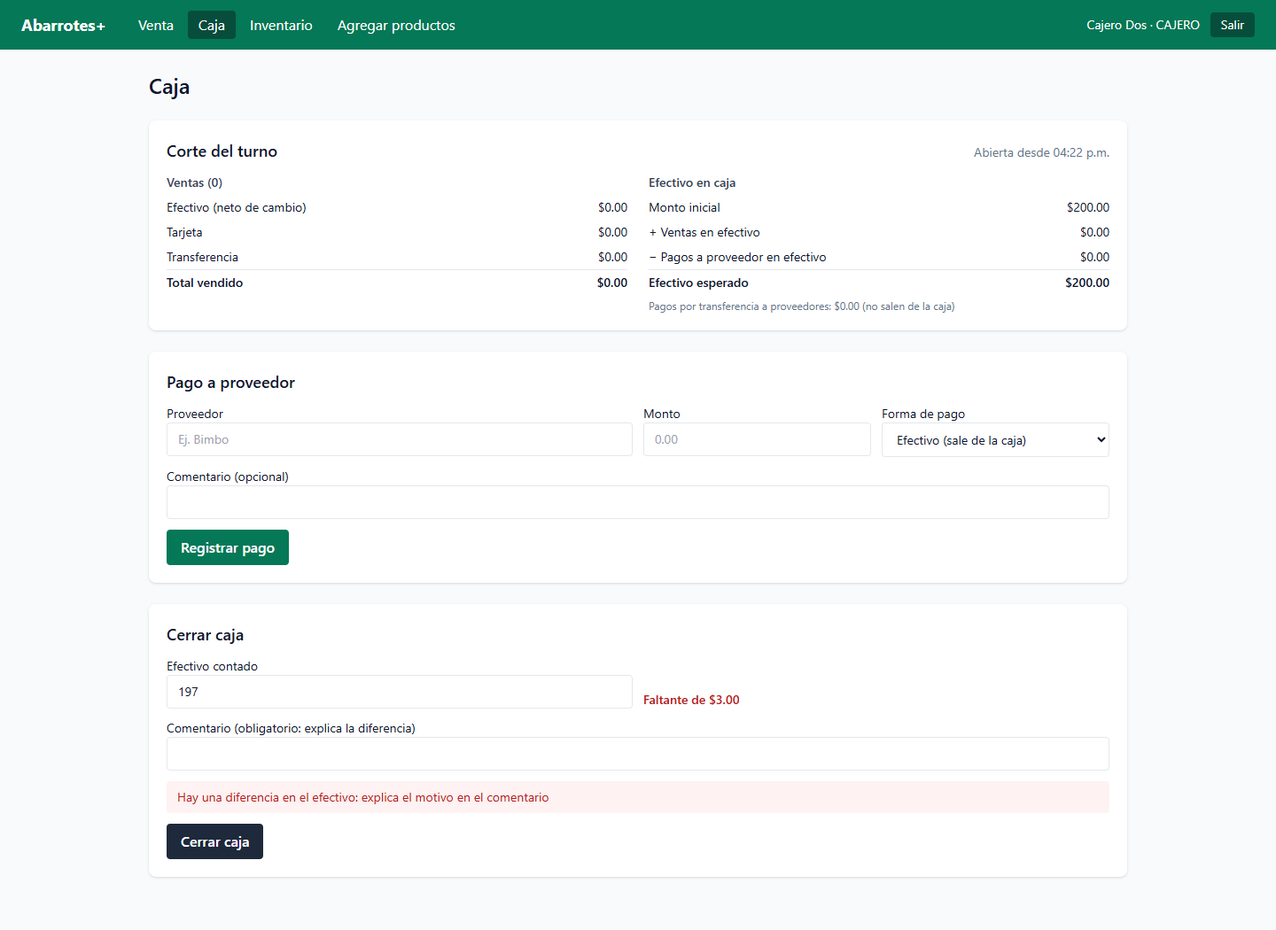
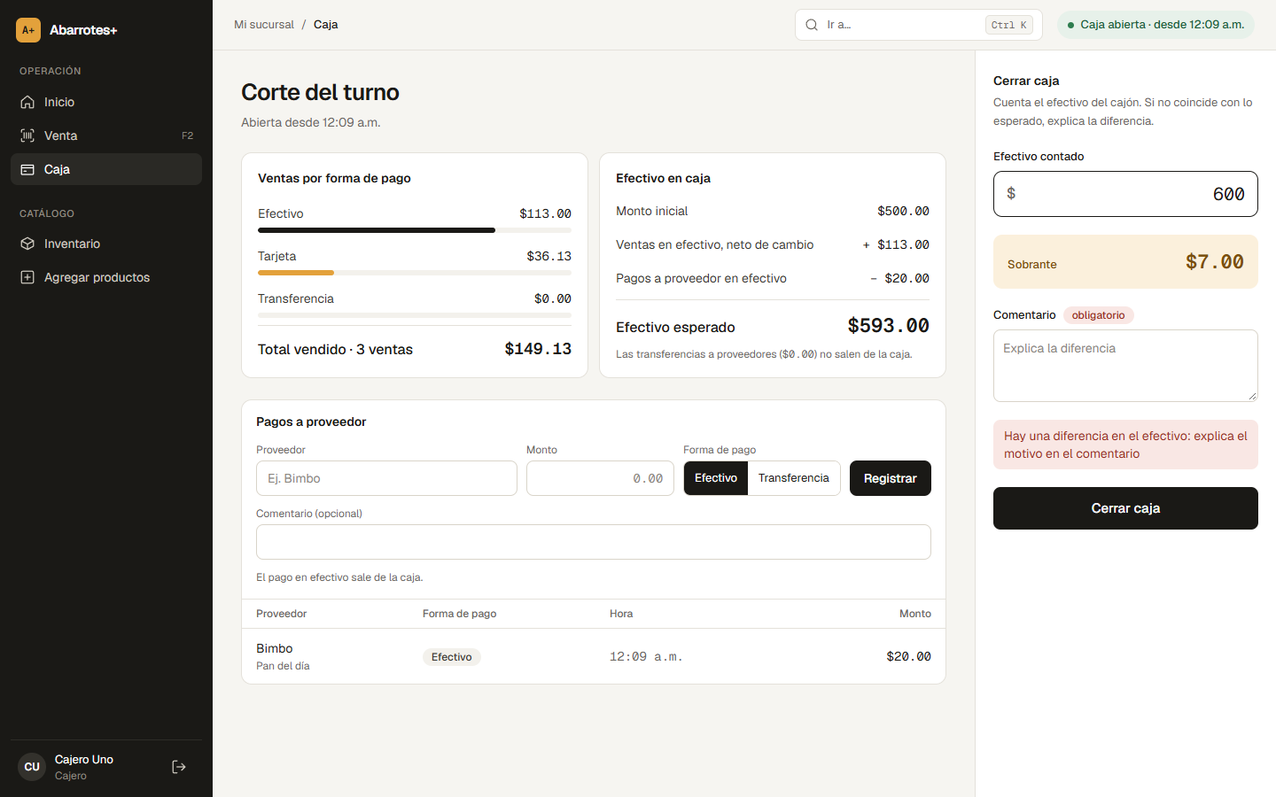
[D-03] Cierre del Sprint 2: 47/47, review, retro y capturas (#17)
* docs(scrum): cierre del Sprint 2 — 47/47 pts, review, retro y capturas Mostrador

- sprint backlog y burndown en 47/47; gráficas regeneradas
- capturas de D-02 rehechas con el nuevo diseño (8 pantallas + 4 alertas, nueva: Inicio)
- Sprint Review con el incremento y borrador de retrospectiva para confirmar con el equipo
- documento Scrum: 4.5–4.7, 4.9, 4.13, 4.14 y conclusiones (borrador)
- checklist de entregables y README actualizados

* docs: changelog de v0.2.0

---------

diff --git a/docs/scrum/documento-scrum.md b/docs/scrum/documento-scrum.md
@@ -1,6 +1,6 @@
 # Documentación del uso de Scrum — Abarrotes+
 
-> **Borrador.** Sigue la estructura de la plantilla "Formato ejemplo para documentar el uso de Scrum en un proyecto" (ver `docs/07-scrum-entregables.md`). Las secciones marcadas como *Pendiente* las completa el responsable indicado. Versión final: documento en Drive, entrega el 1 de noviembre de 2026.
+> Sigue la estructura de la plantilla "Formato ejemplo para documentar el uso de Scrum en un proyecto" (ver `docs/07-scrum-entregables.md`). Estado al cierre del Sprint 2 (29 oct 2026). Pendiente solo la retroalimentación de la demo del 1 nov y la confirmación de la retrospectiva por el equipo.
 
 | Campo | Detalle |
 |---|---|
@@ -88,25 +88,25 @@ Estados: ⬜ Por hacer · 🟨 En progreso · 🟦 En revisión (PR abierto) · 
 | T-00 | Monorepo, Docker Postgres, schema, seed, layout, cliente API | — | — | Sosa | ✅ Integrado en `develop` |
 | T-01 | Login API + JWT + middleware `requireRol` | HU-01 | 3 | Sosa | ✅ |
 | T-02 | Pantalla login, contexto de sesión, guard por rol, logout | HU-01 | | Sosa | ✅ |
-| T-03 | Store del carrito + input de escaneo | HU-02 | 5 | Miguel (reasignada 28 oct) | ⬜ |
-| T-04 | Producto no encontrado + búsqueda manual | HU-02 | | Miguel (reasignada 28 oct) | ⬜ |
+| T-03 | Store del carrito + input de escaneo | HU-02 | 5 | Miguel (reasignada 28 oct) | ✅ |
+| T-04 | Producto no encontrado + búsqueda manual | HU-02 | | Miguel (reasignada 28 oct) | ✅ |
 | T-05 | Captura de peso, conversión g→kg, validaciones | HU-03 | 8 | Miguel | ✅ |
 | T-06 | Cálculo de precio a granel + integración al carrito + pruebas | HU-03 | | Miguel | ✅ |
 | T-07 | `POST /ventas`: recálculo, pagos mixtos, cambio, descuento de stock | HU-06 | 8 | Sosa | ✅ |
 | T-08 | Pantalla de cobro (pago mixto, referencia, cambio) | HU-06 | | Sosa | ✅ |
-| T-09 | Abrir caja (turno) y bloqueo de venta sin turno | HU-05 | 8 | Sosa (reasignada 28 oct) | ⬜ |
-| T-10 | Registrar pago a proveedor | HU-09 | 3 | Sosa (reasignada 28 oct) | ⬜ |
-| T-11 | Corte: totales por método, efectivo esperado, cierre con diferencia | HU-05 | | Sosa (reasignada 28 oct) | ⬜ |
+| T-09 | Abrir caja (turno) y bloqueo de venta sin turno | HU-05 | 8 | Sosa (reasignada 28 oct) | ✅ |
+| T-10 | Registrar pago a proveedor | HU-09 | 3 | Sosa (reasignada 28 oct) | ✅ |
+| T-11 | Corte: totales por método, efectivo esperado, cierre con diferencia | HU-05 | | Sosa (reasignada 28 oct) | ✅ |
 | T-12 | CRUD cajeros (crear, suspender, eliminar lógico, reset password) | HU-12 | 5 | Sosa | ✅ |
 | T-13 | Consulta de inventario con búsqueda | HU-04 | 2 | Miguel | ✅ |
 | T-14 | Alta de producto y entrada de existencias + movimientos | HU-08 | 5 | Sosa (reasignada) | ✅ |
 | D-01 | Diagrama de casos de uso + descripciones | Doc | — | Miguel | ✅ |
-| D-02 | Prototipos principales y de alertas | Doc | — | Miguel (reasignada 28 oct) | ⬜ |
-| D-03 | Diagrama de clases, burndown/burnup, documento Scrum | Doc | — | Sosa | 🟨 |
+| D-02 | Prototipos principales y de alertas | Doc | — | Miguel (reasignada 28 oct) | ✅ |
+| D-03 | Diagrama de clases, burndown/burnup, documento Scrum | Doc | — | Sosa | ✅ |
 
-**Total comprometido:** 47 pts · **Completado:** 31 pts al 28 de octubre (HU-01, HU-06, HU-12, HU-08, HU-03, HU-04).
+**Total comprometido:** 47 pts · **Completado:** 47 pts al 28 de octubre (9 de 9 HU). Sprint cerrado.
 
-> Nota: estados al 28 de octubre; la fuente viva es `docs/scrum/sprint-backlog.md`. Sincronizar antes de la versión final.
+> Nota: estados al cierre (28 oct); la fuente viva es `docs/scrum/sprint-backlog.md`. Sincronizar antes de la versión final.
 
 ### 4.3 Diagrama de clases
 
@@ -126,15 +126,37 @@ Actores cajero, administrador y jefe, con herencia de permisos (el jefe hereda d
 
 Las nueve descripciones (objetivo, precondiciones, flujo principal, alternos, postcondiciones y trazabilidad a los criterios de aceptación) están en `docs/diagramas/casos-de-uso.md`. Las capturas de las pantallas de granel e inventario están en `docs/evidencias/miguel/`.
 
-> Pendiente: vincular los prototipos (D-02, Miguel) a cada caso.
+Cada caso enlaza su pantalla (P-01–P-07) en la tabla de evidencia visual de `docs/diagramas/casos-de-uso.md`; las capturas están en la sección 4.6.
 
 ### 4.6 Prototipos principales
 
-> Pendiente: Miguel (D-02, reasignada 28 oct)
+Capturas de las pantallas reales usadas como prototipos iterados (D-02, Miguel; actualizadas al sistema visual "Mostrador" el 29 oct). Catálogo: `docs/prototipos/README.md`.
+
+![Inicio](../prototipos/img/inicio.png)
+
+![Venta](../prototipos/img/venta.png)
+
+![Cobro](../prototipos/img/cobro.png)
+
+![Caja](../prototipos/img/caja.png)
+
+![Inventario](../prototipos/img/inventario.png)
+
+![Agregar productos](../prototipos/img/productos.png)
+
+![Cuentas de cajero](../prototipos/img/cajeros.png)
+
+![Inicio de sesión](../prototipos/img/login.png)
 
 ### 4.7 Prototipos de alertas
 
-> Pendiente: Miguel (D-02, reasignada 28 oct)
+![Producto no encontrado](../prototipos/img/alerta-producto-no-encontrado.png)
+
+![Pago insuficiente](../prototipos/img/alerta-pago-insuficiente.png)
+
+![Diferencia en el corte](../prototipos/img/alerta-diferencia-corte.png)
+
+![Cuenta suspendida](../prototipos/img/alerta-usuario-suspendido.png)
 
 ### 4.8 Sprint
 
@@ -149,7 +171,7 @@ Los sprints duran **2 semanas**. El calendario del proyecto es:
 
 ### 4.9 Incremento
 
-> Pendiente: Todos (al cierre del sprint, 1 nov 2026)
+Versión `v0.2.0`. Incremento funcional y demostrable: un cajero inicia sesión, abre su caja, registra ventas por código de barras y a granel, cobra con pago mixto y cambio, registra pagos a proveedor y cierra su caja con corte y diferencia; el administrador gestiona cajeros, alta de productos e inventario. Interfaz con el sistema visual "Mostrador". 9 de 9 HU (47 pts), 130 pruebas automatizadas. Detalle en la Sprint Review (`docs/scrum/reuniones.md`).
 
 ### 4.10 Burn Up
 
@@ -159,7 +181,7 @@ La gráfica de burnup del producto (puntos acumulados completados contra el plan
 
 ### 4.11 Burn Down
 
-La gráfica de burndown del Sprint 2 (puntos restantes por día contra la línea ideal de 47 a 0) se mantiene en `docs/scrum/burndown.md`, sección "Gráficas", y se actualiza diariamente. Al día 10 (28 oct) quedan 16 puntos: se integraron HU-01, HU-06, HU-12, HU-08, HU-03 y HU-04 (31 pts). Lo restante es HU-02, HU-09 y HU-05 (Gonzalo).
+La gráfica de burndown del Sprint 2 (puntos restantes por día contra la línea ideal de 47 a 0) se mantiene en `docs/scrum/burndown.md`, sección "Gráficas", y se actualiza diariamente. El burndown se mantuvo plano hasta el día 7 (47 pts) y bajó a 0 el día 10 (28 oct), cuatro días antes del fin del sprint: 26 pts el 26 oct (HU-01, HU-06, HU-12, HU-08) y los 21 restantes el 28 oct (HU-03, HU-04, HU-02, HU-09, HU-05).
 
 ![Burndown Sprint 2](../diagramas/img/burndown.png)
 
@@ -177,14 +199,22 @@ El **21 de octubre de 2026** se realizó la reunión de re-planeación e inicio 
 
 ### 4.13 Reunión técnica diaria
 
-> Pendiente: Todos (dailies en `docs/scrum/dailies/` y Drive)
+Formato de daily asíncrono en `docs/scrum/dailies/_plantilla.md` (prompt `docs/prompts/daily.md`). Registrados en el repositorio: 21 oct 2026; en Drive: 12 y 20 oct. El seguimiento diario se apoyó además en la actividad de GitHub (ramas, PRs y revisiones). Se reconoce como área de mejora en la retrospectiva.
 
 ### 4.14 Cierre de sprint
 
-> Pendiente: Todos (Sprint Review y Retrospectiva del 1 nov 2026 en `docs/scrum/reuniones.md`)
+- **Sprint Review:** 9 de 9 HU entregadas (47 pts), cada una con PR revisado e integrado; demo formal el 1 nov.
+- **Retrospectiva:** bien — recuperación total del Sprint 1, trabajo por dominio sin conflictos, harness de IA y revisión centralizada; mejorar — detección tardía de la salida de integrantes, dailies irregulares y concentración de carga; acciones para el Sprint 3.
+- Minuta completa: `docs/scrum/reuniones.md`.
 
 ---
 
 ## 5. Conclusiones
 
-> Pendiente: Todos
+El equipo entregó en el Sprint 2 la totalidad del compromiso de los Sprints 1 y 2 (9 historias, 47 puntos) pese a iniciar con el Sprint 1 sin entregar y perder a dos integrantes. Scrum permitió hacer visibles los problemas (burndown plano hasta el día 7) y responder con re-planeaciones concretas: reparto por dominio, revisión centralizada y reasignación de historias según la disponibilidad real.
+
+El uso de inteligencia artificial con reglas compartidas (`AGENTS.md`) aceleró el desarrollo sin perder control: cada cambio pasó por criterios de aceptación, pruebas automatizadas y revisión antes de integrarse.
+
+Para el Sprint 3 el equipo se compromete a sostener el daily, confirmar al Product Owner y planear con base en la velocidad real observada.
+
+> Pendiente de confirmar por el equipo antes de la entrega.

diff --git a/docs/scrum/reuniones.md b/docs/scrum/reuniones.md
@@ -97,46 +97,81 @@ Tareas técnicas y de documentación sin puntos: T-00 (Sosa), D-01 (Miguel), D-0
 
 ---
 
-## Sprint Review — 1 nov 2026
+## Sprint Review — cierre del Sprint 2
+
+> Minuta preparada por el Scrum Master el 29 oct 2026 con el incremento terminado; la demostración formal ante la maestra es el domingo 1 de noviembre. **Confirmar asistentes y retroalimentación después de la demo.**
 
 | Campo | Detalle |
 |---|---|
-| Fecha | Domingo 1 de noviembre de 2026 |
-| Asistentes | |
+| Fecha | 29 oct 2026 (cierre) · demo formal 1 nov 2026 |
+| Asistentes | Luis David Sosa Fernández (SM + dev) · Miguel Angel Marcelo Taracena (dev) · Product Owner: por confirmar |
+| Compromiso | 9 HU · 47 pts (Sprint 1 + Sprint 2) |
+| Entregado | **9 HU · 47 pts (100 %)** |
 
 ### HU entregadas
 
-| HU | Nombre | Pts | ¿Cumple DoD? | Observaciones |
-|---|---|---|---|---|
-| | | | | |
+| HU | Nombre | Pts | Responsable final | PR | ¿Cumple DoD? |
+|---|---|---|---|---|---|
+| HU-01 | Inicio de sesión | 3 | Sosa | #1 | Sí |
+| HU-06 | Cobros con tarjeta, efectivo y transferencia | 8 | Sosa | #3 | Sí |
+| HU-02 | Cobrar productos con código de barras | 5 | Miguel (de Gonzalo) | #14 | Sí |
+| HU-03 | Producto a granel | 8 | Miguel | #8 | Sí |
+| HU-09 | Registrar pagos a proveedores | 3 | Sosa (de Gonzalo) | #13 | Sí |
+| HU-05 | Corte y cierre de caja | 8 | Sosa (de Gonzalo) | #13 | Sí |
+| HU-12 | Gestión de cuentas de cajero | 5 | Sosa | #2 | Sí |
+| HU-04 | Revisar el inventario | 2 | Miguel | #9 | Sí |
+| HU-08 | Agregar productos | 5 | Sosa (de Miguel) | #7 | Sí |
+
+DoD verificada en cada PR: criterios de aceptación cubiertos, pruebas automatizadas (27 web + 103 API al cierre), lint y tipos correctos, PR integrado a `develop` y revisado/aprobado por el Scrum Master.
 
 ### Incremento demostrado
 
--
+Recorrido completo en la app (capturas en `docs/prototipos/img/`):
+1. Inicio de sesión por rol; una cuenta suspendida no puede entrar.
+2. Abrir caja con monto inicial.
+3. Venta: escaneo por código (suma cantidad al repetir), búsqueda manual si no existe, producto a granel por peso (0.750 kg × $28.90 = $21.68).
+4. Cobro mixto (efectivo + tarjeta con referencia) con cálculo de cambio; pago insuficiente bloqueado. La existencia se descuenta.
+5. Pago a proveedor en efectivo o transferencia.
+6. Corte por forma de pago, efectivo esperado y cierre con sobrante/faltante y comentario obligatorio.
+7. Administración: alta de productos y entradas de existencias, consulta de inventario, gestión de cuentas de cajero.
+8. Interfaz rediseñada (sistema visual "Mostrador"): barra lateral, Inicio con resumen del turno, paleta de comandos.
 
 ### Retroalimentación
 
--
+- [Completar después de la demo del 1 nov: observaciones de la maestra / PO.]
 
 ---
 
-## Retrospectiva — 1 nov 2026
+## Retrospectiva — Sprint 2
+
+> **Borrador** redactado por el Scrum Master a partir de los hechos del sprint. El equipo debe revisarlo y agregar su opinión antes de la entrega.
 
 | Campo | Detalle |
 |---|---|
-| Fecha | Domingo 1 de noviembre de 2026 |
-| Asistentes | |
+| Fecha | 29 oct 2026 (borrador) |
+| Asistentes | [Confirmar] |
 
 ### ¿Qué salió bien?
 
--
+- Se recuperó el Sprint 1 completo y se entregó junto con el Sprint 2: 47 de 47 puntos.
+- La re-planeación por dominio (cada quien dueño de sus módulos) evitó conflictos: ningún PR tuvo conflictos de integración.
+- El AI harness (`AGENTS.md`, prompts y guía de arranque) permitió que cada integrante trabajara con su propia herramienta de IA siguiendo las mismas reglas.
+- La revisión centralizada en el Scrum Master con protección de ramas dio un `develop` siempre funcional.
+- Las pruebas automatizadas por criterio de aceptación detectaron errores antes de integrar.
 
 ### ¿Qué mejorar?
 
--
+- El Sprint 1 no se entregó: la salida de dos integrantes no se detectó ni se re-planeó a tiempo.
+- Durante los primeros días del Sprint 2 no hubo avance visible en GitHub de dos integrantes; la falta de dailies impidió detectarlo antes.
+- Hubo que reasignar historias dos veces (26 y 28 oct), lo que concentró la carga en el Scrum Master (32 pts).
+- Los dailies no se registraron todos los días (solo el del 21 oct está en el repo).
+- El Product Owner nunca se confirmó.
 
 ### Acciones
 
 | Acción | Responsable | Para cuándo |
 |---|---|---|
-| | | |
+| Daily obligatorio (aunque sea asíncrono) y revisión de avance en GitHub cada 2 días | Scrum Master | Sprint 3 |
+| Confirmar el Product Owner con la maestra | Scrum Master | Inicio del Sprint 3 |
+| Re-planear el Sprint 3 según la disponibilidad real del equipo (incluida la posible reincorporación de Gonzalo) | Todos | Planeación del Sprint 3 |
+| Mantener el burndown actualizado diariamente | Scrum Master | Sprint 3 |

diff --git a/docs/07-scrum-entregables.md b/docs/07-scrum-entregables.md
@@ -6,24 +6,24 @@ Borrador del documento: `docs/scrum/documento-scrum.md`.
 
 | Sección de la plantilla | Contenido | Responsable | Fuente en el repo | Estado |
 |---|---|---|---|---|
-| 1. Introducción (propósito, alcance) | Sistema Abarrotes+ | Sosa | `docs/01-vision-y-equipo.md` | 🟨 |
-| 2. Fundamentación y valores | Por qué Scrum | Sosa | — | 🟨 |
-| 3. Personas y roles | Tabla del equipo (solo 3 integrantes) | Sosa | `docs/01-vision-y-equipo.md` | 🟨 |
+| 1. Introducción (propósito, alcance) | Sistema Abarrotes+ | Sosa | `docs/01-vision-y-equipo.md` | ✅ |
+| 2. Fundamentación y valores | Por qué Scrum | Sosa | — | ✅ |
+| 3. Personas y roles | Tabla del equipo (solo 3 integrantes) | Sosa | `docs/01-vision-y-equipo.md` | ✅ |
 | 4.1 Pila de producto | Backlog priorizado | Sosa | `docs/02-backlog.md` | ✅ |
-| 4.2 Pila del sprint | Tareas de S1+S2 con estado | Todos | `docs/scrum/sprint-backlog.md` | ⬜ |
-| 4.3 Diagrama de clases | Desde `schema.prisma` | Sosa | `docs/diagramas/clases.md` | 🟨 |
+| 4.2 Pila del sprint | Tareas de S1+S2 con estado | Todos | `docs/scrum/sprint-backlog.md` | ✅ |
+| 4.3 Diagrama de clases | Desde `schema.prisma` | Sosa | `docs/diagramas/clases.md` | ✅ |
 | 4.4 Diagrama de casos de uso | Actores: cajero, admin, jefe | Miguel | `docs/diagramas/casos-de-uso.md` → `img/casos-de-uso.png` | ✅ |
-| 4.5 Descripciones de casos de uso con prototipos | 1 por HU de S1+S2 | Miguel | `docs/diagramas/casos-de-uso.md` | 🟦 (capturas D-02 listas para revisión) |
-| 4.6 Prototipos principales | Login, venta, cobro, caja, inventario, usuarios | Miguel | `docs/prototipos/` | 🟦 |
-| 4.7 Prototipos de alertas | Producto no encontrado, pago insuficiente, diferencia en corte, usuario suspendido… | Miguel | `docs/prototipos/` | 🟦 |
-| 4.8 Sprint | Duración 2 semanas, fechas | Sosa | `docs/01-vision-y-equipo.md` | 🟨 |
-| 4.9 Incremento | Qué funciona al 1 nov (+ capturas) | Todos | release `v0.2.0` | ⬜ |
-| 4.10 Burn Up | Puntos completados vs. plan (80 pts) | Sosa | `docs/scrum/burndown.md` | 🟨 |
-| 4.11 Burn Down | Puntos restantes por día del sprint | Sosa | `docs/scrum/burndown.md` | 🟨 |
-| 4.12 Reunión de inicio de sprint | Minuta de planeación (re-planeación S1+S2) | Sosa | `docs/scrum/reuniones.md` | 🟨 |
-| 4.13 Reunión técnica diaria | Dailies | Todos | `docs/scrum/dailies/` + Drive | ⬜ |
-| 4.14 Cierre de sprint | Review + retrospectiva | Todos | `docs/scrum/reuniones.md` | ⬜ |
-| 5. Conclusiones | | Todos | — | ⬜ |
+| 4.5 Descripciones de casos de uso con prototipos | 1 por HU de S1+S2 | Miguel | `docs/diagramas/casos-de-uso.md` | ✅ |
+| 4.6 Prototipos principales | Login, venta, cobro, caja, inventario, usuarios | Miguel | `docs/prototipos/` | ✅ |
+| 4.7 Prototipos de alertas | Producto no encontrado, pago insuficiente, diferencia en corte, usuario suspendido… | Miguel | `docs/prototipos/` | ✅ |
+| 4.8 Sprint | Duración 2 semanas, fechas | Sosa | `docs/01-vision-y-equipo.md` | ✅ |
+| 4.9 Incremento | Qué funciona al 1 nov (+ capturas) | Todos | release `v0.2.0` | ✅ |
+| 4.10 Burn Up | Puntos completados vs. plan (80 pts) | Sosa | `docs/scrum/burndown.md` | ✅ |
+| 4.11 Burn Down | Puntos restantes por día del sprint | Sosa | `docs/scrum/burndown.md` | ✅ |
+| 4.12 Reunión de inicio de sprint | Minuta de planeación (re-planeación S1+S2) | Sosa | `docs/scrum/reuniones.md` | ✅ |
+| 4.13 Reunión técnica diaria | Dailies | Todos | `docs/scrum/dailies/` + Drive | ✅ |
+| 4.14 Cierre de sprint | Review + retrospectiva | Todos | `docs/scrum/reuniones.md` | ✅ (retro por confirmar) |
+| 5. Conclusiones | Borrador | Todos | `docs/scrum/documento-scrum.md` | 🟨 confirmar con el equipo |
 
 ## Notas
 

diff --git a/docs/scrum/sprint-backlog.md b/docs/scrum/sprint-backlog.md
@@ -8,8 +8,8 @@ Estados: ⬜ Por hacer · 🟨 En progreso · 🟦 En revisión (PR abierto) · 
 | T-00 | Monorepo, Docker Postgres, schema, seed, layout, cliente API | — | — | Sosa | ✅ | | |
 | T-01 | Login API + JWT + middleware `requireRol` | HU-01 | 3 | Sosa | ✅ | #1 | 26 oct |
 | T-02 | Pantalla login, contexto de sesión, guard por rol, logout | HU-01 | | Sosa | ✅ | #1 | 26 oct |
-| T-03 | Store del carrito + input de escaneo | HU-02 | 5 | Miguel (reasignada 28 oct) | 🟦 | #14 | |
-| T-04 | Producto no encontrado + búsqueda manual | HU-02 | | Miguel (reasignada 28 oct) | 🟦 | #14 | |
+| T-03 | Store del carrito + input de escaneo | HU-02 | 5 | Miguel (reasignada 28 oct) | ✅ | #14 | 28 oct |
+| T-04 | Producto no encontrado + búsqueda manual | HU-02 | | Miguel (reasignada 28 oct) | ✅ | #14 | 28 oct |
 | T-05 | Captura de peso, conversión g→kg, validaciones | HU-03 | 8 | Miguel | ✅ | #8 | 28 oct |
 | T-06 | Cálculo de precio a granel + integración al carrito + pruebas | HU-03 | | Miguel | ✅ | #8 | 28 oct |
 | T-07 | `POST /ventas`: recálculo, pagos mixtos, cambio, descuento de stock | HU-06 | 8 | Sosa | ✅ | #3 | 26 oct |
@@ -21,7 +21,7 @@ Estados: ⬜ Por hacer · 🟨 En progreso · 🟦 En revisión (PR abierto) · 
 | T-13 | Consulta de inventario con búsqueda | HU-04 | 2 | Miguel | ✅ | #9 | 28 oct |
 | T-14 | Alta de producto y entrada de existencias + movimientos | HU-08 | 5 | Sosa (reasignada) | ✅ | #7 | 26 oct |
 | D-01 | Diagrama de casos de uso + descripciones | Doc | — | Miguel | ✅ | #10 | 28 oct |
-| D-02 | Prototipos principales y de alertas | Doc | — | Miguel (reasignada 28 oct) | 🟦 | #15 | |
-| D-03 | Diagrama de clases, burndown/burnup, documento Scrum | Doc | — | Sosa | 🟨 | | |
+| D-02 | Prototipos principales y de alertas | Doc | — | Miguel (reasignada 28 oct) | ✅ | #15 | 28 oct |
+| D-03 | Diagrama de clases, burndown/burnup, documento Scrum | Doc | — | Sosa | ✅ | cierre | 28 oct |
 
-**Total comprometido:** 47 pts · **Completado:** 42 pts (HU-01, HU-06, HU-12, HU-08, HU-03, HU-04, HU-09, HU-05) · **Restante:** 5 pts (Miguel: HU-02)
+**Total comprometido:** 47 pts · **Completado:** 47 pts (9 de 9 HU) · **Restante:** 0 pts · Sprint cerrado el 28 oct.

diff --git a/docs/scrum/burndown.md b/docs/scrum/burndown.md
@@ -15,7 +15,7 @@ Actualizar cada día con los puntos de HU **completamente hechas** (DoD) al cier
 | 7 | 25 oct | 25.3 | 47 | |
 | 8 | 26 oct | 21.7 | 26 | Se integran HU-01, HU-06, HU-12 y HU-08 (PRs #1–#3, #7) |
 | 9 | 27 oct | 18.1 | 26 | Miguel abre PRs #8–#10 |
-| 10 | 28 oct | 14.5 | 5 | Se integran HU-03, HU-04 (Miguel), HU-09 y HU-05 (Sosa) |
+| 10 | 28 oct | 14.5 | 0 | Se integran HU-03, HU-04, HU-02 (Miguel), HU-09 y HU-05 (Sosa). Sprint completo |
 | 11 | 29 oct | 10.8 | | |
 | 12 | 30 oct | 7.2 | | |
 | 13 | 31 oct | 3.6 | | |
@@ -26,7 +26,7 @@ Actualizar cada día con los puntos de HU **completamente hechas** (DoD) al cier
 | Sprint | Fin | Plan acumulado | Real acumulado |
 |---|---|---|---|
 | 1 | 18 oct | 24 | 0 |
-| 2 | 1 nov | 47 | |
+| 2 | 1 nov | 47 | 47 |
 | 3 | 15 nov | 70 | |
 | 4 | 29 nov | 80 | |
 
@@ -36,7 +36,7 @@ Para la gráfica: pedir a la IA `genera la gráfica de burndown/burnup como Merm
 
 Actualizar las series "real" al llenar las tablas de arriba. Imágenes exportadas: [`burndown.png`](../diagramas/img/burndown.png), [`burnup.png`](../diagramas/img/burnup.png).
 
-### Burndown Sprint 2 (al 28 oct)
+### Burndown Sprint 2 (cerrado el 28 oct)
 
 Línea gris: ideal (47 → 0). Línea roja: real restante (días 1–10).
 
@@ -47,12 +47,12 @@ xychart-beta
     x-axis ["19 oct", "20 oct", "21 oct", "22 oct", "23 oct", "24 oct", "25 oct", "26 oct", "27 oct", "28 oct", "29 oct", "30 oct", "31 oct", "1 nov"]
     y-axis "Puntos restantes" 0 --> 50
     line [47.0, 43.4, 39.8, 36.2, 32.5, 28.9, 25.3, 21.7, 18.1, 14.5, 10.8, 7.2, 3.6, 0.0]
-    line [47, 47, 47, 47, 47, 47, 47, 26, 26, 5]
+    line [47, 47, 47, 47, 47, 47, 47, 26, 26, 0]
 ```
 
 ### Burnup del producto (80 pts)
 
-Línea gris: plan acumulado. Barras rojas: real acumulado (Sprint 1 = 0; Sprint 2 parcial al 28 oct = 42).
+Línea gris: plan acumulado. Barras rojas: real acumulado (Sprint 1 = 0; Sprint 2 = 47, completo).
 
 ```mermaid
 %%{init: {"themeVariables": {"xyChart": {"plotColorPalette": "#64748b, #dc2626"}}}}%%
@@ -61,5 +61,5 @@ xychart-beta
     x-axis ["Sprint 1", "Sprint 2", "Sprint 3", "Sprint 4"]
     y-axis "Puntos acumulados" 0 --> 80
     line [24, 47, 70, 80]
-    bar [0, 42]
+    bar [0, 47]
 ```

diff --git a/docs/prototipos/README.md b/docs/prototipos/README.md
@@ -4,12 +4,13 @@
 
 Las imágenes de este catálogo son capturas de las pantallas reales de Abarrotes+, usadas como prototipos iterados para el documento Scrum (§4.6–4.7). No son wireframes previos ni certifican por sí mismas que una historia esté aprobada: el estado de integración se consulta en el [sprint backlog](../scrum/sprint-backlog.md).
 
-**Capturas verificadas el 28 de octubre de 2026:** siete pantallas y cuatro alertas reales en Edge, con datos locales de ejemplo. Se comprobó el recorrido completo de escaneo a cobro y cierre de caja, sin errores de JavaScript. Se usa el teclado para reproducir el comportamiento del lector USB; no se ha probado un dispositivo físico.
+**Capturas actualizadas el 29 de octubre de 2026** al sistema visual "Mostrador" (ver `docs/diseno/README.md`): ocho pantallas y cuatro alertas reales, generadas en Edge a 1440×900 con datos locales de ejemplo. La primera versión (28 oct) la hizo Miguel. Se comprobó el recorrido completo de escaneo a cobro y cierre de caja, sin errores de JavaScript. Se usa el teclado para reproducir el comportamiento del lector USB; no se ha probado un dispositivo físico.
 
 ## Pantallas principales
 
 | Referencia | Pantalla / ruta | Historia | Imagen | Qué permite revisar |
 |---|---|---|---|---|
+| P-00 | Inicio · `/` | — | [inicio.png](img/inicio.png) | Resumen del turno, acciones rápidas, actividad y productos por reponer (con skeletons al cargar). |
 | P-01 | Acceso · `/login` | HU-01 | [login.png](img/login.png) | Usuario, contraseña y acceso a las funciones del rol. |
 | P-02 | Venta · `/venta` | HU-02, HU-03 | [venta.png](img/venta.png) | Escaneo, búsqueda manual, edición de cantidades, retiro de renglones, productos a granel y total. |
 | P-03 | Cobro · `/venta` | HU-06 | [cobro.png](img/cobro.png) | Métodos de pago, referencia, total, pagado y cambio. |

diff --git a/CHANGELOG.md b/CHANGELOG.md
@@ -1,0 +1,24 @@
+# Changelog
+
+## v0.2.0 — Cierre del Sprint 2 (Sprint 1 + Sprint 2) · 29 oct 2026
+
+Entrega: domingo 1 de noviembre de 2026. 9 historias, 47 puntos.
+
+### Historias de usuario
+- **HU-01** Inicio de sesión por rol; bloqueo de cuentas suspendidas, eliminadas y de sucursal inactiva. (#1)
+- **HU-12** Gestión de cuentas de cajero: crear, suspender, reactivar, restablecer contraseña y eliminar (lógico). (#2)
+- **HU-06** Cobro con efectivo, tarjeta y transferencia; pago mixto, cambio y descuento de existencias. (#3)
+- **HU-08** Alta de productos y entrada de existencias con registro de quién y cuándo. (#7)
+- **HU-03** Productos a granel con captura de peso en kg o g y cálculo del importe. (#8)
+- **HU-04** Consulta de inventario por sucursal con búsqueda. (#9)
+- **HU-09 / HU-05** Caja: abrir, pagos a proveedor, corte por forma de pago y cierre con diferencia. (#13)
+- **HU-02** Escaneo por código de barras, búsqueda manual y edición de la cuenta. (#14)
+
+### Interfaz
+- Sistema visual "Mostrador": paleta cerrada, Geist / Geist Mono, barra lateral por rol, paleta de comandos (Ctrl K), atajos F2 y F9, pantalla de Inicio con skeletons. (#16)
+
+### Documentación Scrum
+- Backlog con criterios de aceptación, plan de entrega, minutas (re-planeación, ajustes de proceso, review y retro), burndown/burnup, diagrama de clases y ER, casos de uso (#10), prototipos (#15) y borrador del documento Scrum.
+
+### Calidad
+- 130 pruebas automatizadas (27 web + 103 API), lint y verificación de tipos en cada PR; ramas `main` y `develop` protegidas con revisión del Scrum Master.

diff --git a/README.md b/README.md
@@ -2,7 +2,7 @@
 
 Sistema de punto de venta multisucursal para tiendas de abarrotes. Proyecto en Scrum de **Luis David Sosa Fernández, Gonzalo Mendoza Herrera y Miguel Angel Marcelo Taracena**.
 
-> 🚧 Sprint 2 en curso — entrega de Sprint 1 + 2: **domingo 1 de noviembre de 2026**. Ver [plan de entrega](docs/03-plan-entrega.md).
+> ✅ **Sprint 2 cerrado** (v0.2.0): Sprint 1 + 2 completos, 9 HU / 47 pts. Demo y entrega: domingo 1 de noviembre de 2026. Ver [Sprint Review](docs/scrum/reuniones.md).
 
 ## Para el equipo: cómo empezar (5 min)
 
